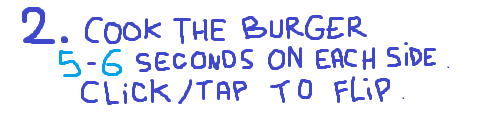
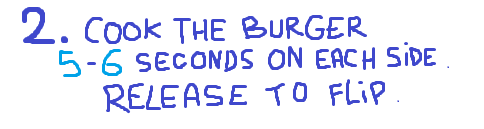
2 levels

Changed region(s): [[0.155, 0.5891, 0.6508, 0.8682], [0.6818, 0.5891, 0.8058, 0.8062], [0.4339, 0.3721, 0.4959, 0.5581]]

diff --git a/index.html b/index.html
@@ -13,8 +13,9 @@
 <img src=smoke2.png id=smoke2 hidden>
 <img src=start.png id=start hidden>
 <img src=title.png id=title hidden>
-<img src=tooraw.png id=tooraw hidden>
-<img src=burnt.png id=burnt hidden>
+<img src=tooraw.png id=toorawimg hidden>
+<img src=toorawburnt.png id=toorawburntimg hidden>
+<img src=burnt.png id=burntimg hidden>
 <img src=ok.png id=ok hidden>
 <img src=hand.png id=hand hidden>
 <img src=rules1.png id=rules1 hidden>
@@ -39,6 +40,37 @@
 state = 0;
 white = 0;
 win = 0;
+level = 1;
+fry = 0;
+released = 0;
+showtime = 0;
+showscore = 0;
+step = 0;
+md = 0;
+mdtimeout = 0;
+timer0 = 0;
+timer = 0;
+ready = 0;
+tooraw = 0;
+burnt = 0;
+
+levels = [
+  , // 0: no
+  [{min: 9, max: 10}], // 1: 9-10s
+  [{min: 5, max: 6},{min: 5, max: 6}], // 2: 5-6s + 5-6s
+
+];
+
+scores = [
+  , // 0: no
+  [], // 1
+  [], // 2
+  [], // 3
+  [], // 4
+  [], // 5
+  [], // 6
+  
+];
 
 onload = () => {
   W = a.width = 600;
@@ -49,8 +81,6 @@ onload = () => {
 }
 
 draw = () => {
-
-console.log(white)
 
   a.width ^= 0;
 
@@ -72,59 +102,110 @@ console.log(white)
   
   // Levels
   else if(state == 2 && !white){
-    //if(level == 1){
-      c.drawImage(window["rules" + level], W/2 - 250, H/2 - 260);
-      c.drawImage(window["gas" + anim], W/2 - 250, H/2 - 80);
-      
-      if(md == 0){
-        c.drawImage(pan1, W/2 - 250, H/2 - 80);
-        c.drawImage(window["food" + level], W/2 - 30, H/2 + 10);
-        c.globalAlpha = fry / 100;
-        c.drawImage(window["foodend" + level], W/2 - 30, H/2 + 10);
-        c.globalAlpha = 1;
-        c.drawImage(pan2, W/2 - 250, H/2 - 80);
-      }
-      else {
-        c.drawImage(pan1, W/2 - 250, H/2 - 20);
-        c.drawImage(window["food" + level], W/2 - 30, H/2 + 70);
-        c.globalAlpha = fry / 200;
-        c.drawImage(window["foodend" + level], W/2 - 30, H/2 + 70);
-        c.globalAlpha = 1;
-        c.drawImage(pan2, W/2 - 250, H/2 - 20);
-        c.drawImage(window["smoke" + anim], W/2 - 300, H/2 - 100);
-      }
-      
-      if(md && !showscore){
-        timer = (new Date() - timer0);
-        if(timer < 3000){
-          c.font = '50px pangolin';
-          c.globalAlpha = Math.max(((1 / (timer / 1000)) - 0.3), 0);
-          c.fillText((timer/1000).toFixed(2) + "s", 150, 250);
-          c.globalAlpha = 1;
-        }
-      }
-      
-      if(!md && released && !showscore){
+    c.drawImage(window["rules" + level], W/2 - 250, H/2 - 260);
+    c.drawImage(window["gas" + anim], W/2 - 250, H/2 - 80);
+    
+    // Idle
+    if(md == 0 && !flip){
+      c.drawImage(pan1, W/2 - 250, H/2 - 80);
+      c.drawImage(window["food" + level], W/2 - 30, H/2 + 10);
+      c.globalAlpha = fry / 100;
+      c.drawImage(window["foodend" + level], W/2 - 30, H/2 + 10);
+      c.globalAlpha = 1;
+      c.drawImage(pan2, W/2 - 250, H/2 - 80);
+    }
+    
+    // Pressed
+    if(md && !flip) {
+      c.drawImage(pan1, W/2 - 250, H/2 - 20);
+      c.drawImage(window["food" + level], W/2 - 30, H/2 + 70);
+      c.globalAlpha = fry / 200;
+      c.drawImage(window["foodend" + level], W/2 - 30, H/2 + 70);
+      c.globalAlpha = 1;
+      c.drawImage(pan2, W/2 - 250, H/2 - 20);
+      c.drawImage(window["smoke" + anim], W/2 - 300, H/2 - 100);
+    }
+    
+    // 1....2.....3
+    if(md && !showscore && !flip && step == 0){
+      timer = (new Date() - timer0);
+      if(timer < 3000){
         c.font = '50px pangolin';
-        c.fillText((timer/1000).toFixed(2) + "s", 250, 250);
+        c.globalAlpha = Math.max(((1 / (timer / 1000)) - 0.3), 0);
+        c.fillText((timer/1000).toFixed(2) + "s", 150, 250);
+        c.globalAlpha = 1;
+      }
+    }
+    
+    // Show time 
+    if(showtime && !showscore && !flip){
+      str = "";
+      if(scores[level].length == 1) c.font = '50px pangolin';
+      if(scores[level].length == 2) c.font = '40px pangolin';
+      if(scores[level].length > 2) c.font = '30px pangolin';
+      c.textAlign = 'center';
+      for(i in scores[level]){
+        str += (+i ? " + " : "") + (scores[level][i]/1000).toFixed(2) + "s"
+      }
+      c.fillText(str, W/2, 250);
+      c.textAlign = 'start';
+    }
+    
+    // Show score
+    if(showscore && !flip){
+    
+      tooraw = 0;
+      burnt = 0;
+    
+      for(i in scores[level]){
+        if(scores[level][i] < levels[level][i].min * 1000){
+          tooraw = 1;
+          win = 0;
+        }
+        else if(scores[level][i] >= levels[level][i].min * 1000 && scores[level][i] <= levels[level][i].max * 1000){
+        }
+        else if(scores[level][i]  > levels[level][i].max * 1000){
+          burnt = 1;
+          win = 0;
+        }
       }
       
-      if(showscore){
-        c.drawImage(hand, W/2 + 200, H/2 - 100);
-        if(timer < 9 * 1000){
-          c.drawImage(tooraw, W/2 - 100, H/2 - 100);
-          win = 0;
-        }
-        if(timer >= 9 * 1000 && timer <= 10 * 1000){
-          c.drawImage(ok, W/2 - 100, H/2 - 100);
-          win = 1;
-        }
-        if(timer > 10 * 1000){
-          c.drawImage(burnt, W/2 - 100, H/2 - 100);
-          win = 0;
-        }
+      if(tooraw && burnt) {
+        console.log("trb");
+        c.drawImage(toorawburntimg, W/2 - 200, H/2 - 100);
       }
-    //}
+      else if(tooraw && !burnt){
+        console.log("tr");
+        c.drawImage(toorawimg, W/2 - 100, H/2 - 100);
+      }
+      else if(burnt && !tooraw){
+        console.log("b");
+        c.drawImage(burntimg, W/2 - 100, H/2 - 100);
+      }
+      else if(!tooraw && !burnt) {
+        console.log("win");
+        win = 1;
+        c.drawImage(ok, W/2 - 100, H/2 - 100);
+      }
+      
+      
+      c.drawImage(hand, W/2 + 200, H/2 - 100);
+    }
+    
+    // flip
+    if(!md && flip){
+      c.drawImage(pan1, W/2 - 250, H/2 - 60);
+      c.save();
+      c.translate(W/2 + 110, H/2 - 30);
+      c.rotate((flip-20+120)/6 + 30);
+      c.drawImage(window["food" + level], 0, 0);
+      c.globalAlpha = fry / 100;
+      c.drawImage(window["foodend" + level], 0, 0);
+      c.globalAlpha = 1;
+      c.restore();
+      c.drawImage(pan2, W/2 - 250, H/2 - 60);
+    }
+    
   }
 }
 
@@ -137,64 +218,75 @@ onclick = (e) => {
     
     // Title
     if(state == 0){
-      state = 1;
-      draw();
-    }
-    
-    // Rules
-    else if(state == 1){
       state = 2;
-      level = 2;
       fry = 0;
       released = 0;
       showscore = 0;
+      step = 0;
       draw();
+      md = 0;
+      ready = 0;
+      setTimeout(()=>{ready = 1}, 200);
     }
   }
 }
 
-md = 0;
-mdtimeout = 0;
-timer0 = 0;
-timer = 0;
-showscore = 0;
+
 
 onmousedown = () => {
- if(!showscore)
+ if(ready && !showscore && !flip && step < levels[level].length)
    mdtimeout = setTimeout(()=>{
-     md=1;
+     md = 1;
      timer0 = new Date();
    }, 34);
 }
 
 
 onmouseup = () => {
- if(!showscore){
-   clearTimeout(mdtimeout);
-   if(md) released = 1;
-   timer = (new Date()) - timer0;
-   md=0;
-   draw();
-   if(state == 2){
-    setTimeout(()=>{
-      showscore=1;
+  if(state == 2 && !showscore && !flip && step < levels[level].length){
+    clearTimeout(mdtimeout);
+    if(md) released = 1;
+    timer = (new Date()) - timer0;
+    scores[level][step] = timer;
+    md = 0;
+    draw();
+    step++;
+    
+    // Flip
+    if(state == 2 && step < levels[level].length){
+      flip = 20;
+    }
+    
+    // Score
+    if(state == 2 && step == levels[level].length){
+      showtime = 1;
+      draw();
+      setTimeout(()=>{
+        showscore = 1;
+        draw();
+      }, 1000 + scores[level].length * 500);
+      
       setTimeout(()=>{
         white = 1;
         draw();
-      }, 1700);
+      }, 1000 + scores[level].length * 500 + 2000);
       
       setTimeout(()=>{
         state = 2;
         if(win == 1) level ++;
         fry = 0;
         released = 0;
+        showtime = 0;
         showscore = 0;
         white = 0;
+        md = 0;
+        step = 0;
+        ready = 0;
+        setTimeout(()=>{ready = 1}, 200);
         draw();
-      }, 2000);
-    }, 1000);
-   }
- }
+      }, 1000 + scores[level].length * 500 + 2500);
+    }
+  }
 }
 
 anim = 1;
@@ -203,10 +295,20 @@ setInterval(() => {
   draw();
 }, 250);
 
+
 fry = 0;
 setInterval(()=>{
-  if(state == 2 && md){
+  if(state == 2 && md && !flip){
     fry ++;
+    draw();
+  }
+},33);
+
+flip = 0;
+setInterval(()=>{
+  if(flip > 0){
+    flip--;
+    if(flip == 0){ fry = 5; }
     draw();
   }
 },33);
